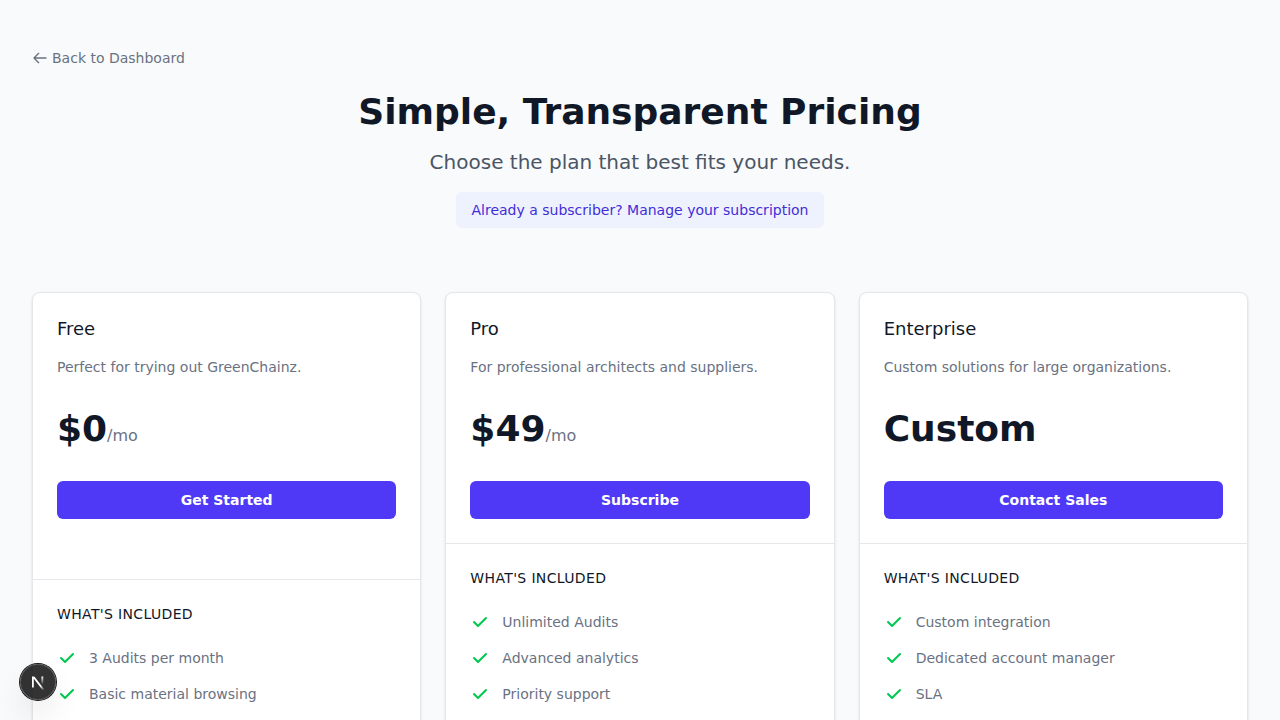
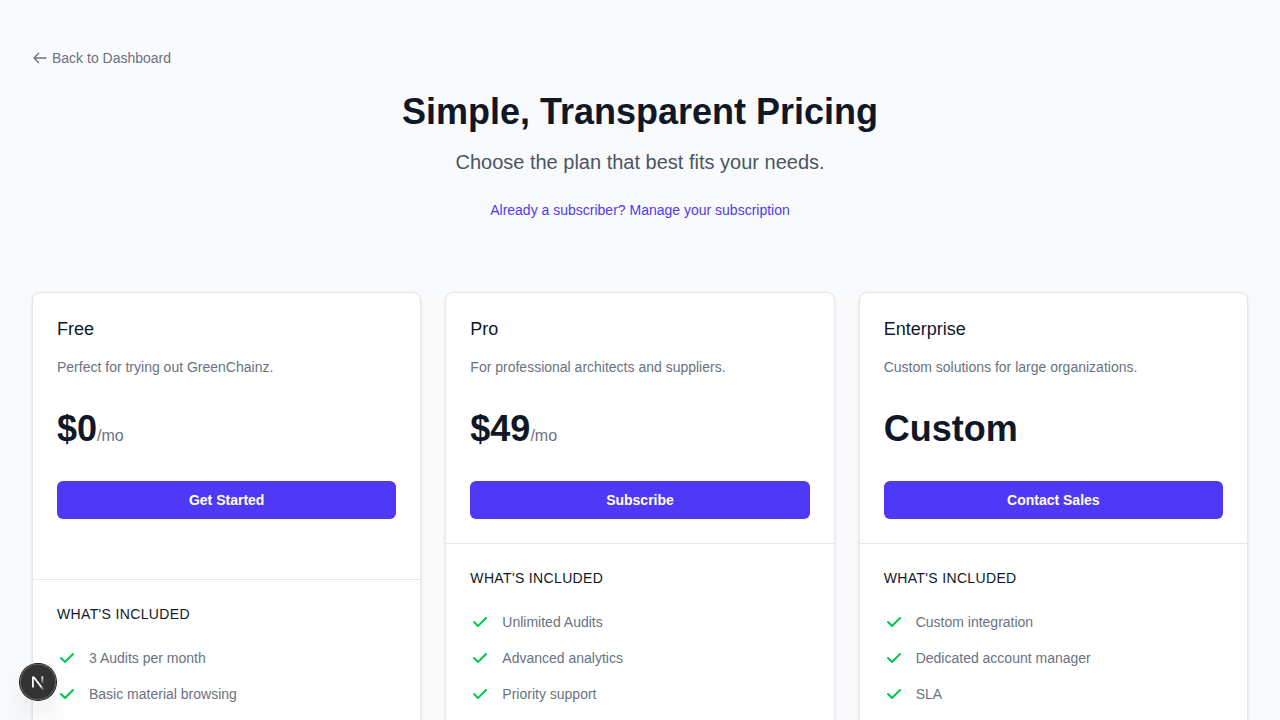
🎨 Palette: Fix broken button styles and duplicates in Billing page
- Removed duplicate `className` and `disabled` props from the "Manage Subscription" button.
- Consolidated styles into a clean "Ghost Button" variant (`text-indigo-600`, `hover:bg-indigo-50`).
- Ensured accessibility attributes (`aria-busy`, `focus-visible`) are preserved.
- Verified with Playwright and existing tests.

diff --git a/web/app/billing/page.tsx b/web/app/billing/page.tsx
@@ -176,13 +176,9 @@ export default function BillingPage() {
           <div className="mt-4">
              <button
                onClick={handleManageSubscription}
-               className="text-indigo-600 hover:text-indigo-500 font-medium hover:underline focus:outline-none focus-visible:ring-2 focus-visible:ring-offset-2 focus-visible:ring-indigo-500 rounded px-3 py-2 transition-colors flex items-center justify-center mx-auto"
+               className="mx-auto flex items-center justify-center rounded-md px-4 py-2 text-sm font-medium text-indigo-600 transition-colors hover:bg-indigo-50 hover:text-indigo-700 focus:outline-none focus-visible:ring-2 focus-visible:ring-indigo-500 focus-visible:ring-offset-2 disabled:cursor-not-allowed disabled:opacity-50"
                disabled={!!loadingTierId}
                aria-busy={loadingTierId === 'manage'}
-               className="mx-auto flex items-center justify-center rounded-md px-4 py-2 text-sm font-medium text-indigo-600 transition-colors hover:bg-indigo-50 hover:text-indigo-700 focus:outline-none focus-visible:ring-2 focus-visible:ring-indigo-500 focus-visible:ring-offset-2 disabled:cursor-not-allowed disabled:opacity-50"
-               className="text-indigo-600 hover:text-indigo-500 hover:underline focus:outline-none focus:ring-2 focus:ring-offset-2 focus:ring-indigo-500 rounded px-2 py-1 transition-colors flex items-center justify-center mx-auto"
-               className="text-indigo-600 hover:text-indigo-800 hover:underline focus:outline-none focus:ring-2 focus:ring-offset-2 focus:ring-indigo-500 rounded px-2 py-1 transition-colors flex items-center justify-center mx-auto"
-               disabled={!!loadingTierId}
                title="Manage your existing subscription and billing details"
              >
                  {loadingTierId === 'manage' && <Spinner className="mr-2 text-indigo-600" />}

diff --git a/verification/verify_billing.py b/verification/verify_billing.py
@@ -1,34 +1,36 @@
 from playwright.sync_api import sync_playwright, expect
+import time
 
-def run():
+def verify_billing_button():
     with sync_playwright() as p:
         browser = p.chromium.launch(headless=True)
         page = browser.new_page()
-        try:
-            print("Navigating to billing page...")
-            page.goto("http://localhost:3000/billing")
 
-            # Wait for content
-            print("Waiting for heading...")
-            expect(page.get_by_role("heading", name="Simple, Transparent Pricing")).to_be_visible(timeout=10000)
-
-            # Verify Manage Subscription button
-            manage_btn = page.get_by_role("button", name="Manage your subscription")
-            expect(manage_btn).to_be_visible()
-
-            # Focus the button to check focus ring styles
-            manage_btn.focus()
-
-            # Take screenshot
-            print("Taking screenshot...")
-            page.screenshot(path="verification/billing_page.png")
-            print("Screenshot saved.")
-
-        except Exception as e:
-            print(f"Error: {e}")
-            page.screenshot(path="verification/error.png")
-        finally:
+        print("Navigating to billing page...")
+        # Retry logic for server startup
+        for i in range(30):
+            try:
+                page.goto("http://localhost:3000/billing")
+                break
+            except Exception as e:
+                print(f"Waiting for server... ({i+1}/30)")
+                time.sleep(2)
+        else:
+            print("Failed to connect to server.")
             browser.close()
+            return
+
+        print("Page loaded. Looking for button...")
+        # Check if the button is visible and has correct text
+        button = page.get_by_role("button", name="Already a subscriber? Manage your subscription")
+        expect(button).to_be_visible()
+
+        print("Button found. Taking screenshot...")
+        # Take a screenshot
+        page.screenshot(path="verification/billing_button.png")
+        print("Screenshot saved to verification/billing_button.png")
+
+        browser.close()
 
 if __name__ == "__main__":
-    run()
+    verify_billing_button()

diff --git a/.Jules/palette.md b/.Jules/palette.md
@@ -15,3 +15,12 @@
 **Action:**
 1.  Use semantic colors for data visualization where status is implied.
 2.  Add fade-in transitions to page wrappers when using Next.js Suspense/Loading boundaries.
+
+## 2025-02-27 - Ghost Buttons & Duplicate Props
+**Learning:**
+1.  **Duplicate Props Risk:** Merge conflicts or copy-paste errors can lead to duplicate props (e.g., `className`) which valid JSX might ignore but cause unpredictable rendering or linting errors.
+2.  **Ghost Buttons:** For secondary actions (like "Manage Subscription") that sit alongside primary calls-to-action ("Subscribe"), a "Ghost Button" style (transparent bg, colored text) reduces visual noise while maintaining accessibility.
+
+**Action:**
+1.  Run `pnpm lint` to catch duplicate props.
+2.  Use Ghost Button pattern (`text-indigo-600 hover:bg-indigo-50`) for secondary or maintenance-related actions.
